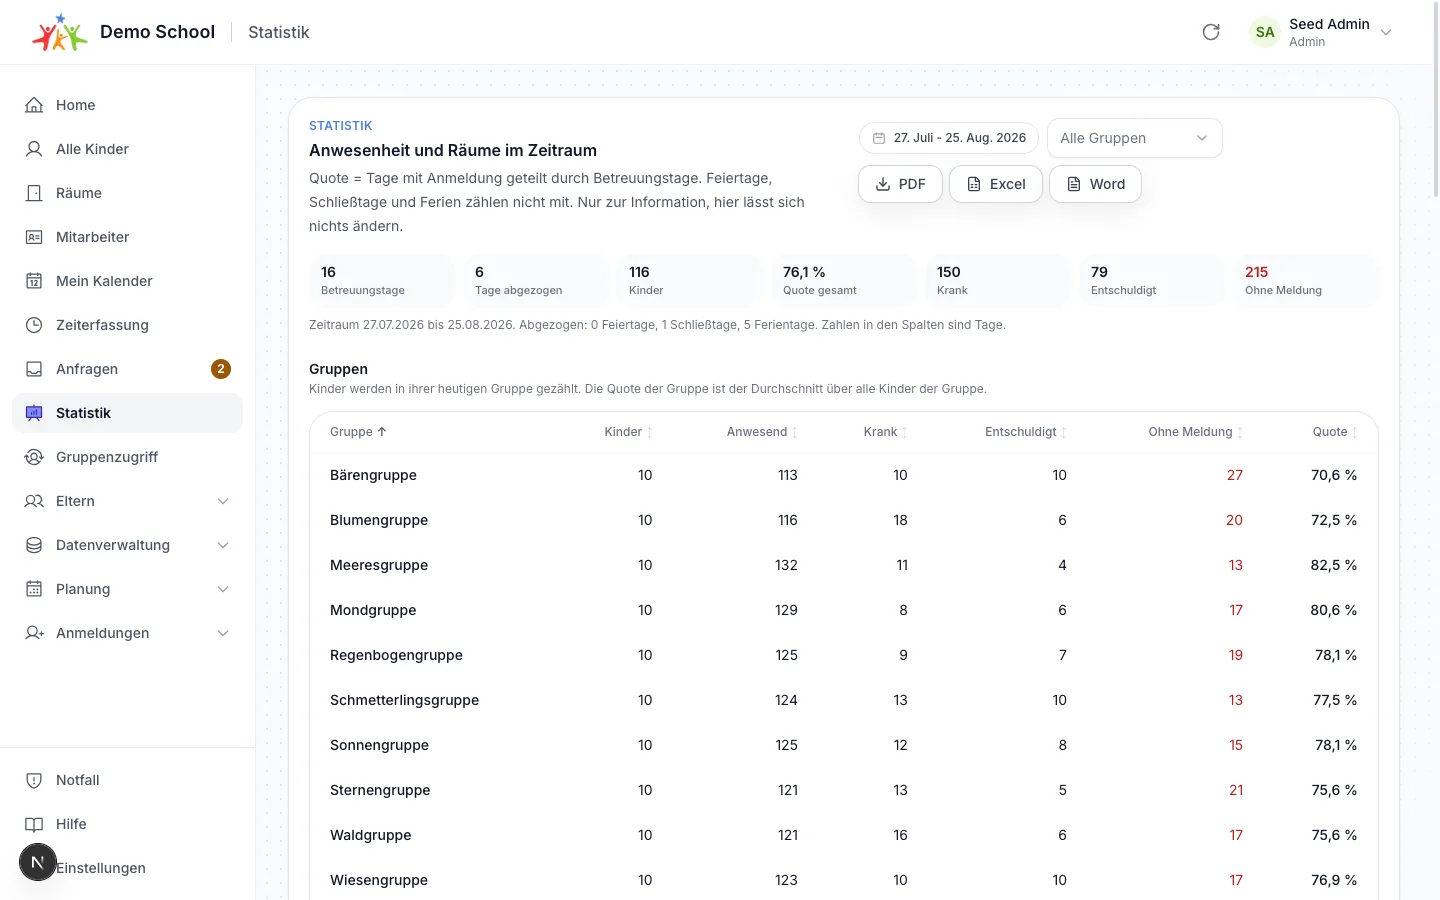
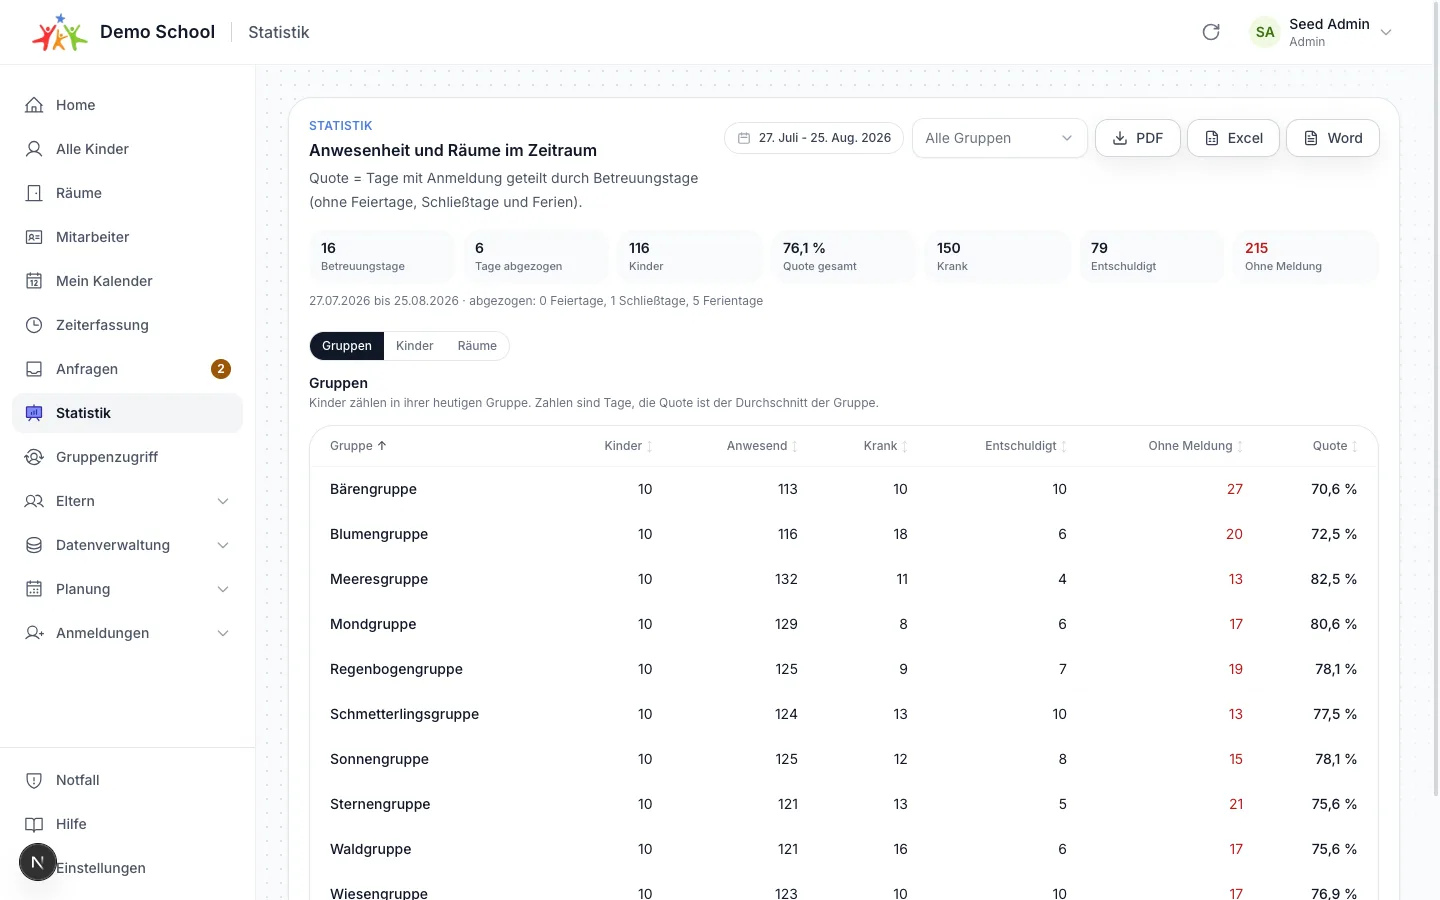
fix(statistics): kürzerer Kopf, Bereichsumschalter statt drei Tabellen (#2606)
Header auf einen Satz, Bedienelemente rechts in der Box, Gruppen /
Kinder / Räume als Umschalter (eine Tabelle sichtbar, mobil full width).
Gruppenfilter lädt seine Optionen über den Gruppen-Proxy. Kit:
DateRangePicker bekommt triggerClassName für mobile Vollbreite.
Preset „Gesamt" bleibt im 366-Tage-Fenster.

diff --git a/frontend/src/app/[tenant]/(protected)/statistics/page.tsx b/frontend/src/app/[tenant]/(protected)/statistics/page.tsx
@@ -22,6 +22,8 @@ import {
 } from "~/components/ui/date-range-picker";
 import { EmptyState } from "~/components/ui/empty-state";
 import { MultiSelect } from "~/components/ui/multi-select";
+import { useIsMobile } from "~/components/ui/hooks/useIsMobile";
+import { SegmentedControl } from "~/components/ui/segmented-control";
 import { Skeleton } from "~/components/ui/skeleton";
 import {
   berlinTodayISO,
@@ -31,6 +33,7 @@ import {
 } from "~/lib/date-helpers";
 import { createLogger } from "~/lib/logger";
 import {
+  fetchStatisticsGroups,
   fetchStatisticsReport,
   formatHours,
   formatRate,
@@ -44,11 +47,18 @@ import {
   type StatisticsRoomRow,
   type StatisticsStudentRow,
 } from "~/lib/statistics-api";
-import { fetchGroups } from "~/lib/student-api";
 import { useSWRAuth } from "~/lib/swr/hooks";
 import { useTenantAwarePath } from "~/lib/tenant-path";
 
 const logger = createLogger({ component: "StatisticsPage" });
+
+type StatisticsView = "groups" | "students" | "rooms";
+
+const VIEW_ITEMS: readonly { value: StatisticsView; label: string }[] = [
+  { value: "groups", label: "Gruppen" },
+  { value: "students", label: "Kinder" },
+  { value: "rooms", label: "Räume" },
+];
 
 const ERROR_MESSAGES: Record<StatisticsErrorCode, string> = {
   forbidden:
@@ -102,6 +112,7 @@ function addDays(d: Date, days: number): Date {
 
 export default function StatisticsPage() {
   const tenantPath = useTenantAwarePath();
+  const isMobile = useIsMobile();
   const todayISO = berlinTodayISO();
   const today = useMemo(() => parseISODate(todayISO), [todayISO]);
   const [range, setRange] = useState<DateRange | undefined>(() => ({
@@ -109,13 +120,17 @@ export default function StatisticsPage() {
     to: parseISODate(berlinTodayISO()),
   }));
   const [groupIds, setGroupIds] = useState<string[]>([]);
+  const [view, setView] = useState<StatisticsView>("groups");
   const [data, setData] = useState<StatisticsReport | null>(null);
   const [loading, setLoading] = useState(true);
   const [errorCode, setErrorCode] = useState<StatisticsErrorCode | null>(null);
   const [exporting, setExporting] = useState<string | null>(null);
   const [exportError, setExportError] = useState<string | null>(null);
 
-  const { data: groups } = useSWRAuth("statistics-groups", fetchGroups);
+  const { data: groups } = useSWRAuth(
+    "statistics-groups",
+    fetchStatisticsGroups,
+  );
   const groupOptions = useMemo(
     () =>
       (groups ?? [])
@@ -195,8 +210,10 @@ export default function StatisticsPage() {
     [fromISO, toISO, groupIds],
   );
 
+  // Anchor 365 days back: the backend allows at most 366 days inclusive,
+  // so the "Gesamt" preset must not overshoot the window by one day.
   const presets = useMemo(
-    () => buildDefaultPresets(addDays(today, -366), today),
+    () => buildDefaultPresets(addDays(today, -365), today),
     [today],
   );
 
@@ -444,12 +461,11 @@ export default function StatisticsPage() {
               Anwesenheit und Räume im Zeitraum
             </h2>
             <p className="mt-1 max-w-2xl text-sm leading-6 text-gray-600">
-              Quote = Tage mit Anmeldung geteilt durch Betreuungstage.
-              Feiertage, Schließtage und Ferien zählen nicht mit. Nur zur
-              Information, hier lässt sich nichts ändern.
+              Quote = Tage mit Anmeldung geteilt durch Betreuungstage (ohne
+              Feiertage, Schließtage und Ferien).
             </p>
           </div>
-          <div className="flex flex-col gap-2 sm:flex-row sm:flex-wrap sm:items-center">
+          <div className="flex flex-col gap-2 sm:flex-row sm:flex-wrap sm:items-center sm:justify-end lg:shrink-0">
             <DateRangePicker
               value={range}
               onChange={(next) => {
@@ -458,6 +474,7 @@ export default function StatisticsPage() {
               presets={presets}
               toMax={today}
               className="w-full sm:w-auto"
+              triggerClassName="w-full justify-center sm:w-auto sm:justify-start"
             />
             <MultiSelect
               value={groupIds}
@@ -468,7 +485,7 @@ export default function StatisticsPage() {
               summaryLabel={(n) => `${n} Gruppen`}
               className="w-full sm:w-44"
             />
-            <div className="flex flex-wrap gap-2">
+            <div className="flex flex-wrap gap-2 sm:justify-end">
               {exportButtons("attendance")}
             </div>
           </div>
@@ -515,96 +532,111 @@ export default function StatisticsPage() {
               />
             </div>
             <p className="mt-2 text-xs leading-5 text-gray-500">
-              Zeitraum {formatDate(data.from)} bis {formatDate(data.to)}.
-              Abgezogen: {data.excluded_days.public_holidays} Feiertage,{" "}
+              {formatDate(data.from)} bis {formatDate(data.to)} · abgezogen:{" "}
+              {data.excluded_days.public_holidays} Feiertage,{" "}
               {data.excluded_days.closing_days} Schließtage,{" "}
-              {data.excluded_days.holiday_periods} Ferientage. Zahlen in den
-              Spalten sind Tage.
+              {data.excluded_days.holiday_periods} Ferientage
             </p>
 
-            <div className="mt-6">
-              <SectionHeading
-                title="Gruppen"
-                hint="Kinder werden in ihrer heutigen Gruppe gezählt. Die Quote der Gruppe ist der Durchschnitt über alle Kinder der Gruppe."
+            <div className="mt-5 flex flex-col gap-2 sm:flex-row sm:items-start sm:justify-between">
+              {/* Mobile fills the line, desktop keeps the compact joined chip. */}
+              <SegmentedControl
+                items={VIEW_ITEMS}
+                value={view}
+                onChange={setView}
+                variant="joined"
+                fullWidth={isMobile}
+                ariaLabel="Bereich wählen"
               />
-              <DataTable
-                columns={groupColumns}
-                rows={data.groups}
-                getRowKey={(row) => row.group_id}
-                defaultSortKey="name"
-                emptyState={
-                  <EmptyState
-                    title="Keine Kinder im Zeitraum"
-                    description="Für die gewählten Gruppen gibt es keine Kinder."
-                  />
-                }
-              />
-            </div>
-
-            <div className="mt-6">
-              <SectionHeading
-                title="Kinder"
-                hint="Ein Klick auf den Namen öffnet die Detailseite des Kindes."
-              />
-              <DataTable
-                columns={studentColumns}
-                rows={data.students}
-                getRowKey={(row) => row.student_id}
-                defaultSortKey="name"
-                pageSize={50}
-                paginationResetKey={`${fromISO}-${toISO}-${groupIds.join(",")}`}
-                emptyState={
-                  <EmptyState
-                    title="Keine Kinder im Zeitraum"
-                    description="Für die gewählten Gruppen gibt es keine Kinder."
-                  />
-                }
-              />
-            </div>
-
-            <div className="mt-6">
-              <div className="flex flex-col gap-2 sm:flex-row sm:items-start sm:justify-between">
-                <SectionHeading
-                  title="Räume"
-                  hint={`Raumdaten liegen nur für die letzten ${data.room_data_days} Tage vor (ab ${formatDate(data.room_data_from)}). Spitze = die meisten Kinder gleichzeitig im Raum. Auslastung = Spitze im Verhältnis zu den Plätzen.`}
-                />
-                {!roomDataAllBeforeWindow && (
-                  <div className="mb-3 flex shrink-0 flex-wrap gap-2">
-                    {exportButtons("rooms")}
-                  </div>
-                )}
-              </div>
-              {roomDataAllBeforeWindow ? (
-                <EmptyState
-                  title="Keine Raumdaten für diesen Zeitraum"
-                  description={`Raumdaten liegen nur für die letzten ${data.room_data_days} Tage vor. Wählen Sie einen Zeitraum ab ${formatDate(data.room_data_from)}.`}
-                />
-              ) : (
-                <>
-                  {roomDataStartsInsideWindow && (
-                    <div className="mb-3">
-                      <Alert
-                        type="info"
-                        message={`Die Raumzahlen beginnen erst am ${formatDate(data.room_data_from)}, ältere Raumdaten sind bereits gelöscht.`}
-                      />
-                    </div>
-                  )}
-                  <DataTable
-                    columns={roomColumns}
-                    rows={data.rooms}
-                    getRowKey={(row) => row.room_id}
-                    defaultSortKey="days"
-                    defaultSortDirection="desc"
-                    emptyState={
-                      <EmptyState
-                        title="Keine Räume"
-                        description="Es sind keine Räume angelegt."
-                      />
-                    }
-                  />
-                </>
+              {view === "rooms" && !roomDataAllBeforeWindow && (
+                <div className="flex flex-wrap gap-2">
+                  {exportButtons("rooms")}
+                </div>
               )}
             </div>
+
+            {view === "groups" && (
+              <div className="mt-3">
+                <SectionHeading
+                  title="Gruppen"
+                  hint="Kinder zählen in ihrer heutigen Gruppe. Zahlen sind Tage, die Quote ist der Durchschnitt der Gruppe."
+                />
+                <DataTable
+                  columns={groupColumns}
+                  rows={data.groups}
+                  getRowKey={(row) => row.group_id}
+                  defaultSortKey="name"
+                  emptyState={
+                    <EmptyState
+                      title="Keine Kinder im Zeitraum"
+                      description="Für die gewählten Gruppen gibt es keine Kinder."
+                    />
+                  }
+                />
+              </div>
+            )}
+
+            {view === "students" && (
+              <div className="mt-3">
+                <SectionHeading
+                  title="Kinder"
+                  hint="Zahlen sind Tage. Ein Klick auf den Namen öffnet die Detailseite des Kindes."
+                />
+                <DataTable
+                  columns={studentColumns}
+                  rows={data.students}
+                  getRowKey={(row) => row.student_id}
+                  defaultSortKey="name"
+                  pageSize={25}
+                  paginationResetKey={`${fromISO}-${toISO}-${groupIds.join(",")}`}
+                  emptyState={
+                    <EmptyState
+                      title="Keine Kinder im Zeitraum"
+                      description="Für die gewählten Gruppen gibt es keine Kinder."
+                    />
+                  }
+                />
+              </div>
+            )}
+
+            {view === "rooms" && (
+              <div className="mt-3">
+                <SectionHeading
+                  title="Räume"
+                  hint={`Raumdaten gibt es nur für die letzten ${data.room_data_days} Tage (ab ${formatDate(data.room_data_from)}). Spitze = meiste Kinder gleichzeitig im Raum, Auslastung = Spitze zu Plätzen.`}
+                />
+                {roomDataAllBeforeWindow ? (
+                  <EmptyState
+                    title="Keine Raumdaten für diesen Zeitraum"
+                    description={`Raumdaten gibt es nur für die letzten ${data.room_data_days} Tage. Wählen Sie einen Zeitraum ab ${formatDate(data.room_data_from)}.`}
+                  />
+                ) : (
+                  <>
+                    {roomDataStartsInsideWindow && (
+                      <div className="mb-3">
+                        <Alert
+                          type="info"
+                          message={`Die Raumzahlen beginnen erst am ${formatDate(data.room_data_from)}, ältere Raumdaten sind bereits gelöscht.`}
+                        />
+                      </div>
+                    )}
+                    <DataTable
+                      columns={roomColumns}
+                      rows={data.rooms}
+                      getRowKey={(row) => row.room_id}
+                      defaultSortKey="days"
+                      defaultSortDirection="desc"
+                      emptyState={
+                        <EmptyState
+                          title="Keine Räume"
+                          description="Es sind keine Räume angelegt."
+                        />
+                      }
+                    />
+                  </>
+                )}
+              </div>
+            )}
           </>
         )}
       </section>

diff --git a/frontend/src/components/ui/date-range-picker.tsx b/frontend/src/components/ui/date-range-picker.tsx
@@ -24,6 +24,9 @@ interface DateRangePickerProps {
   readonly className?: string;
   readonly fromMin?: Date;
   readonly toMax?: Date;
+  /** Extra classes on the trigger chip, e.g. `w-full sm:w-auto` for a
+   * mobile filter row that should fill the line. */
+  readonly triggerClassName?: string;
 }
 
 /**
@@ -39,6 +42,7 @@ export function DateRangePicker({
   className = "",
   fromMin,
   toMax,
+  triggerClassName = "",
 }: DateRangePickerProps) {
   const [isOpen, setIsOpen] = useState(false);
   const containerRef = useRef<HTMLDivElement>(null);
@@ -70,7 +74,7 @@ export function DateRangePicker({
         onClick={() => setIsOpen((v) => !v)}
         className={`inline-flex h-8 items-center gap-2 rounded-full border border-gray-200 bg-white px-3 text-xs font-medium text-gray-700 transition-colors ${
           isOpen ? "bg-gray-50" : "hover:bg-gray-50"
-        }`}
+        } ${triggerClassName}`}
       >
         <svg
           className="h-3.5 w-3.5 text-gray-400"

diff --git a/frontend/src/lib/statistics-api.ts b/frontend/src/lib/statistics-api.ts
@@ -130,3 +130,30 @@ export function formatHours(minutes: number): string {
     maximumFractionDigits: 1,
   });
 }
+
+export interface StatisticsGroupOption {
+  id: string;
+  name: string;
+}
+
+/** Education groups for the filter, via the groups proxy. */
+export async function fetchStatisticsGroups(): Promise<
+  StatisticsGroupOption[]
+> {
+  const response = await fetch("/api/groups?page_size=1000", {
+    cache: "no-store",
+  });
+  if (!response.ok) {
+    throw new StatisticsError(
+      "unknown",
+      `groups request failed (${response.status})`,
+    );
+  }
+  const body = (await response.json()) as {
+    data?: { id: number | string; name: string }[];
+  };
+  return (body.data ?? []).map((group) => ({
+    id: String(group.id),
+    name: group.name,
+  }));
+}
